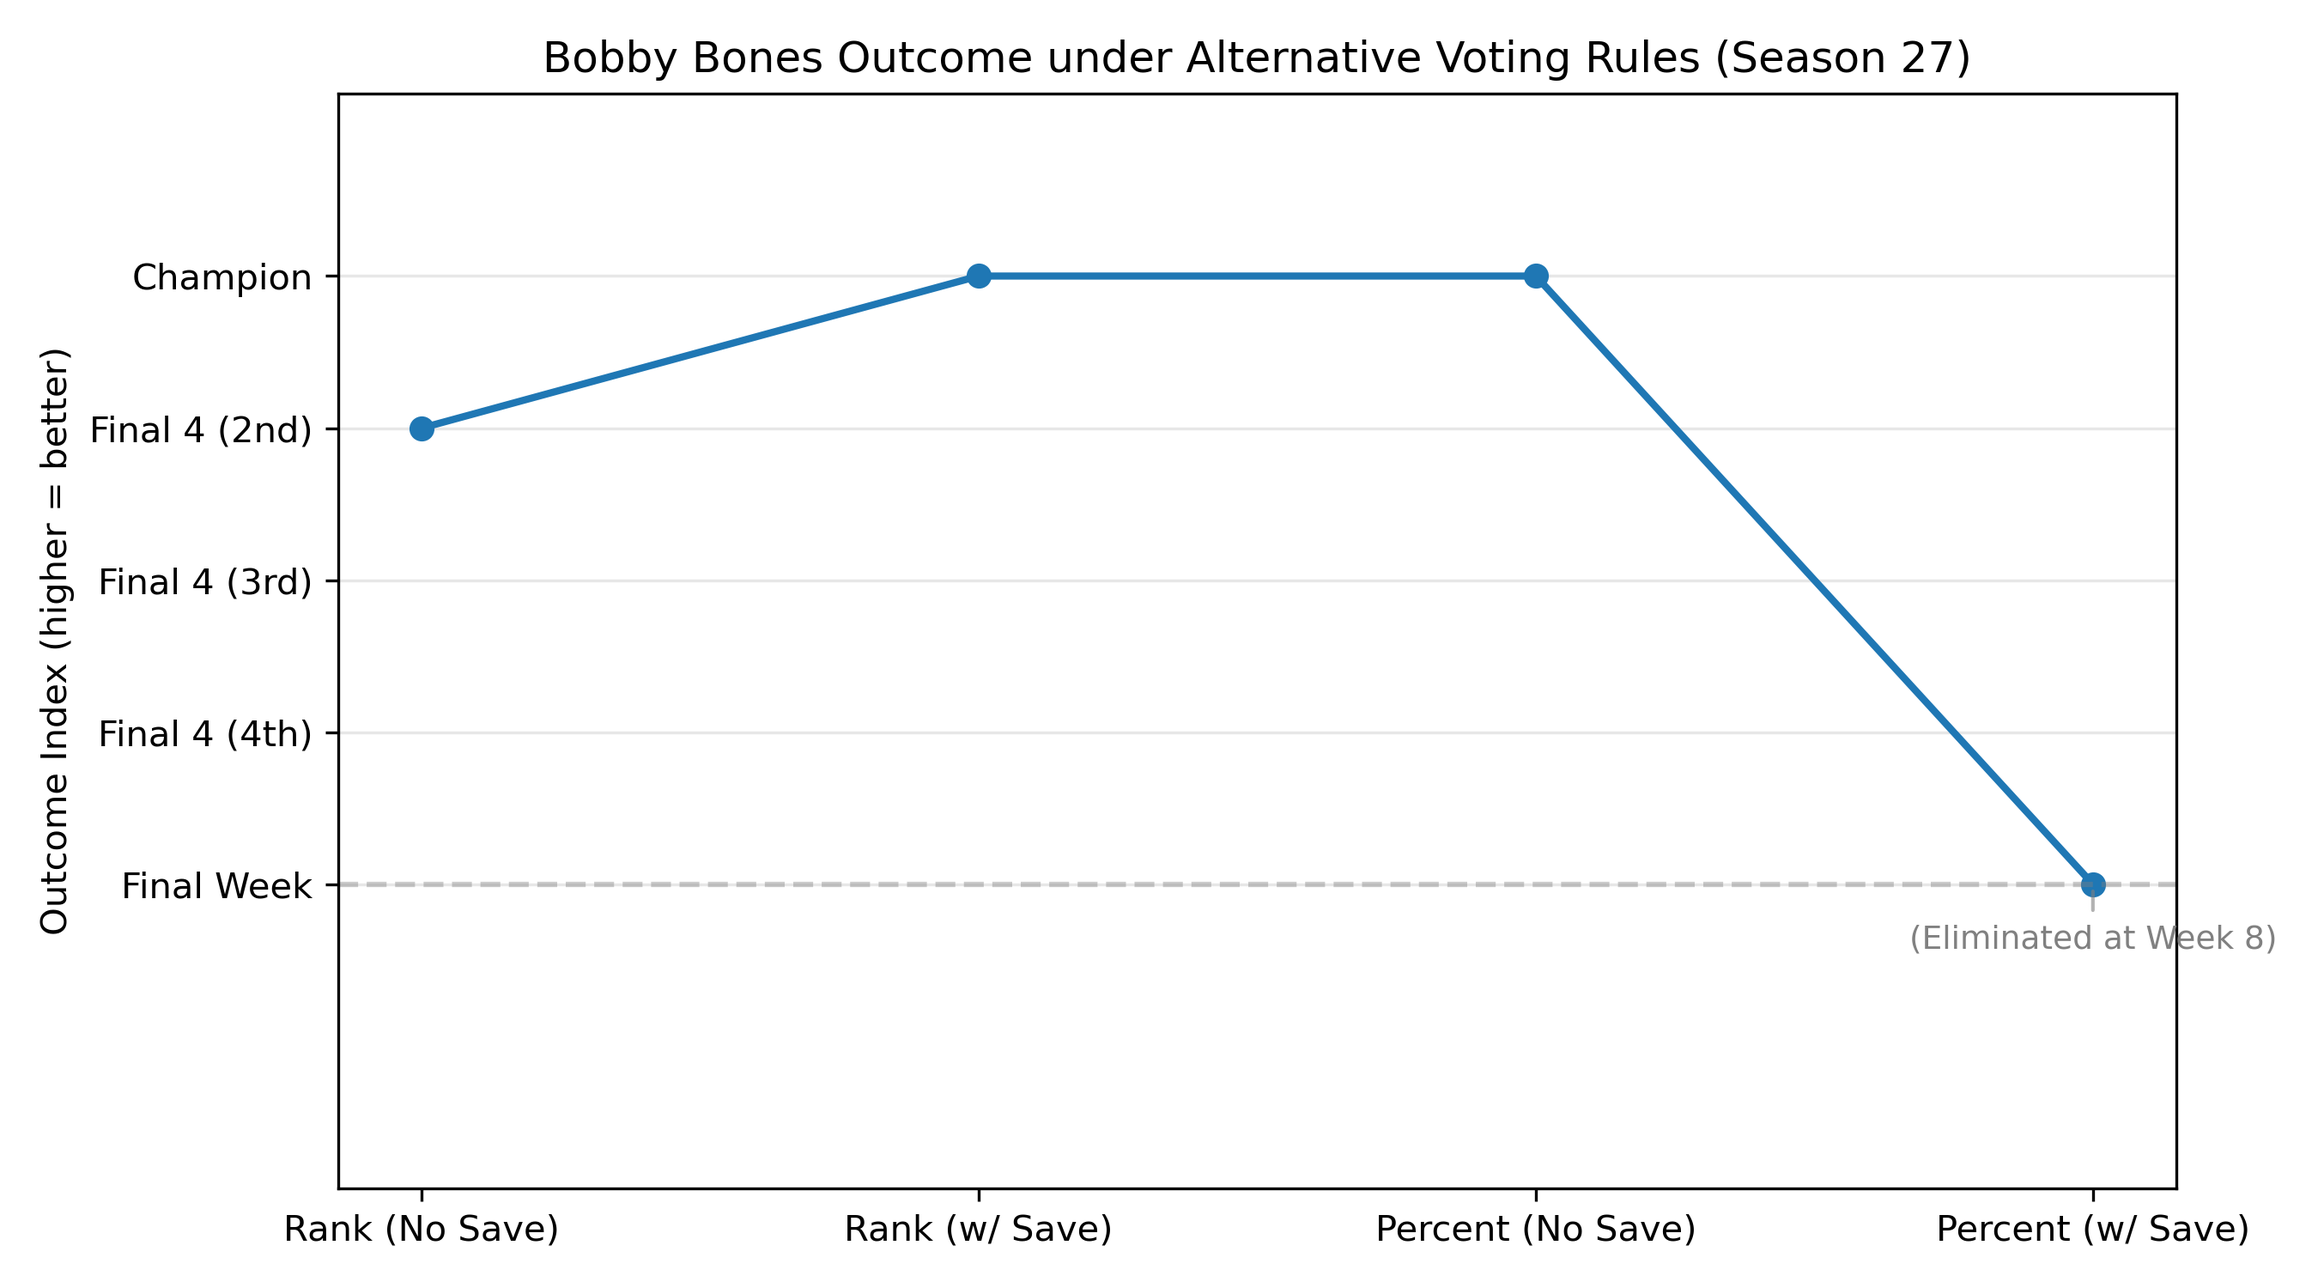
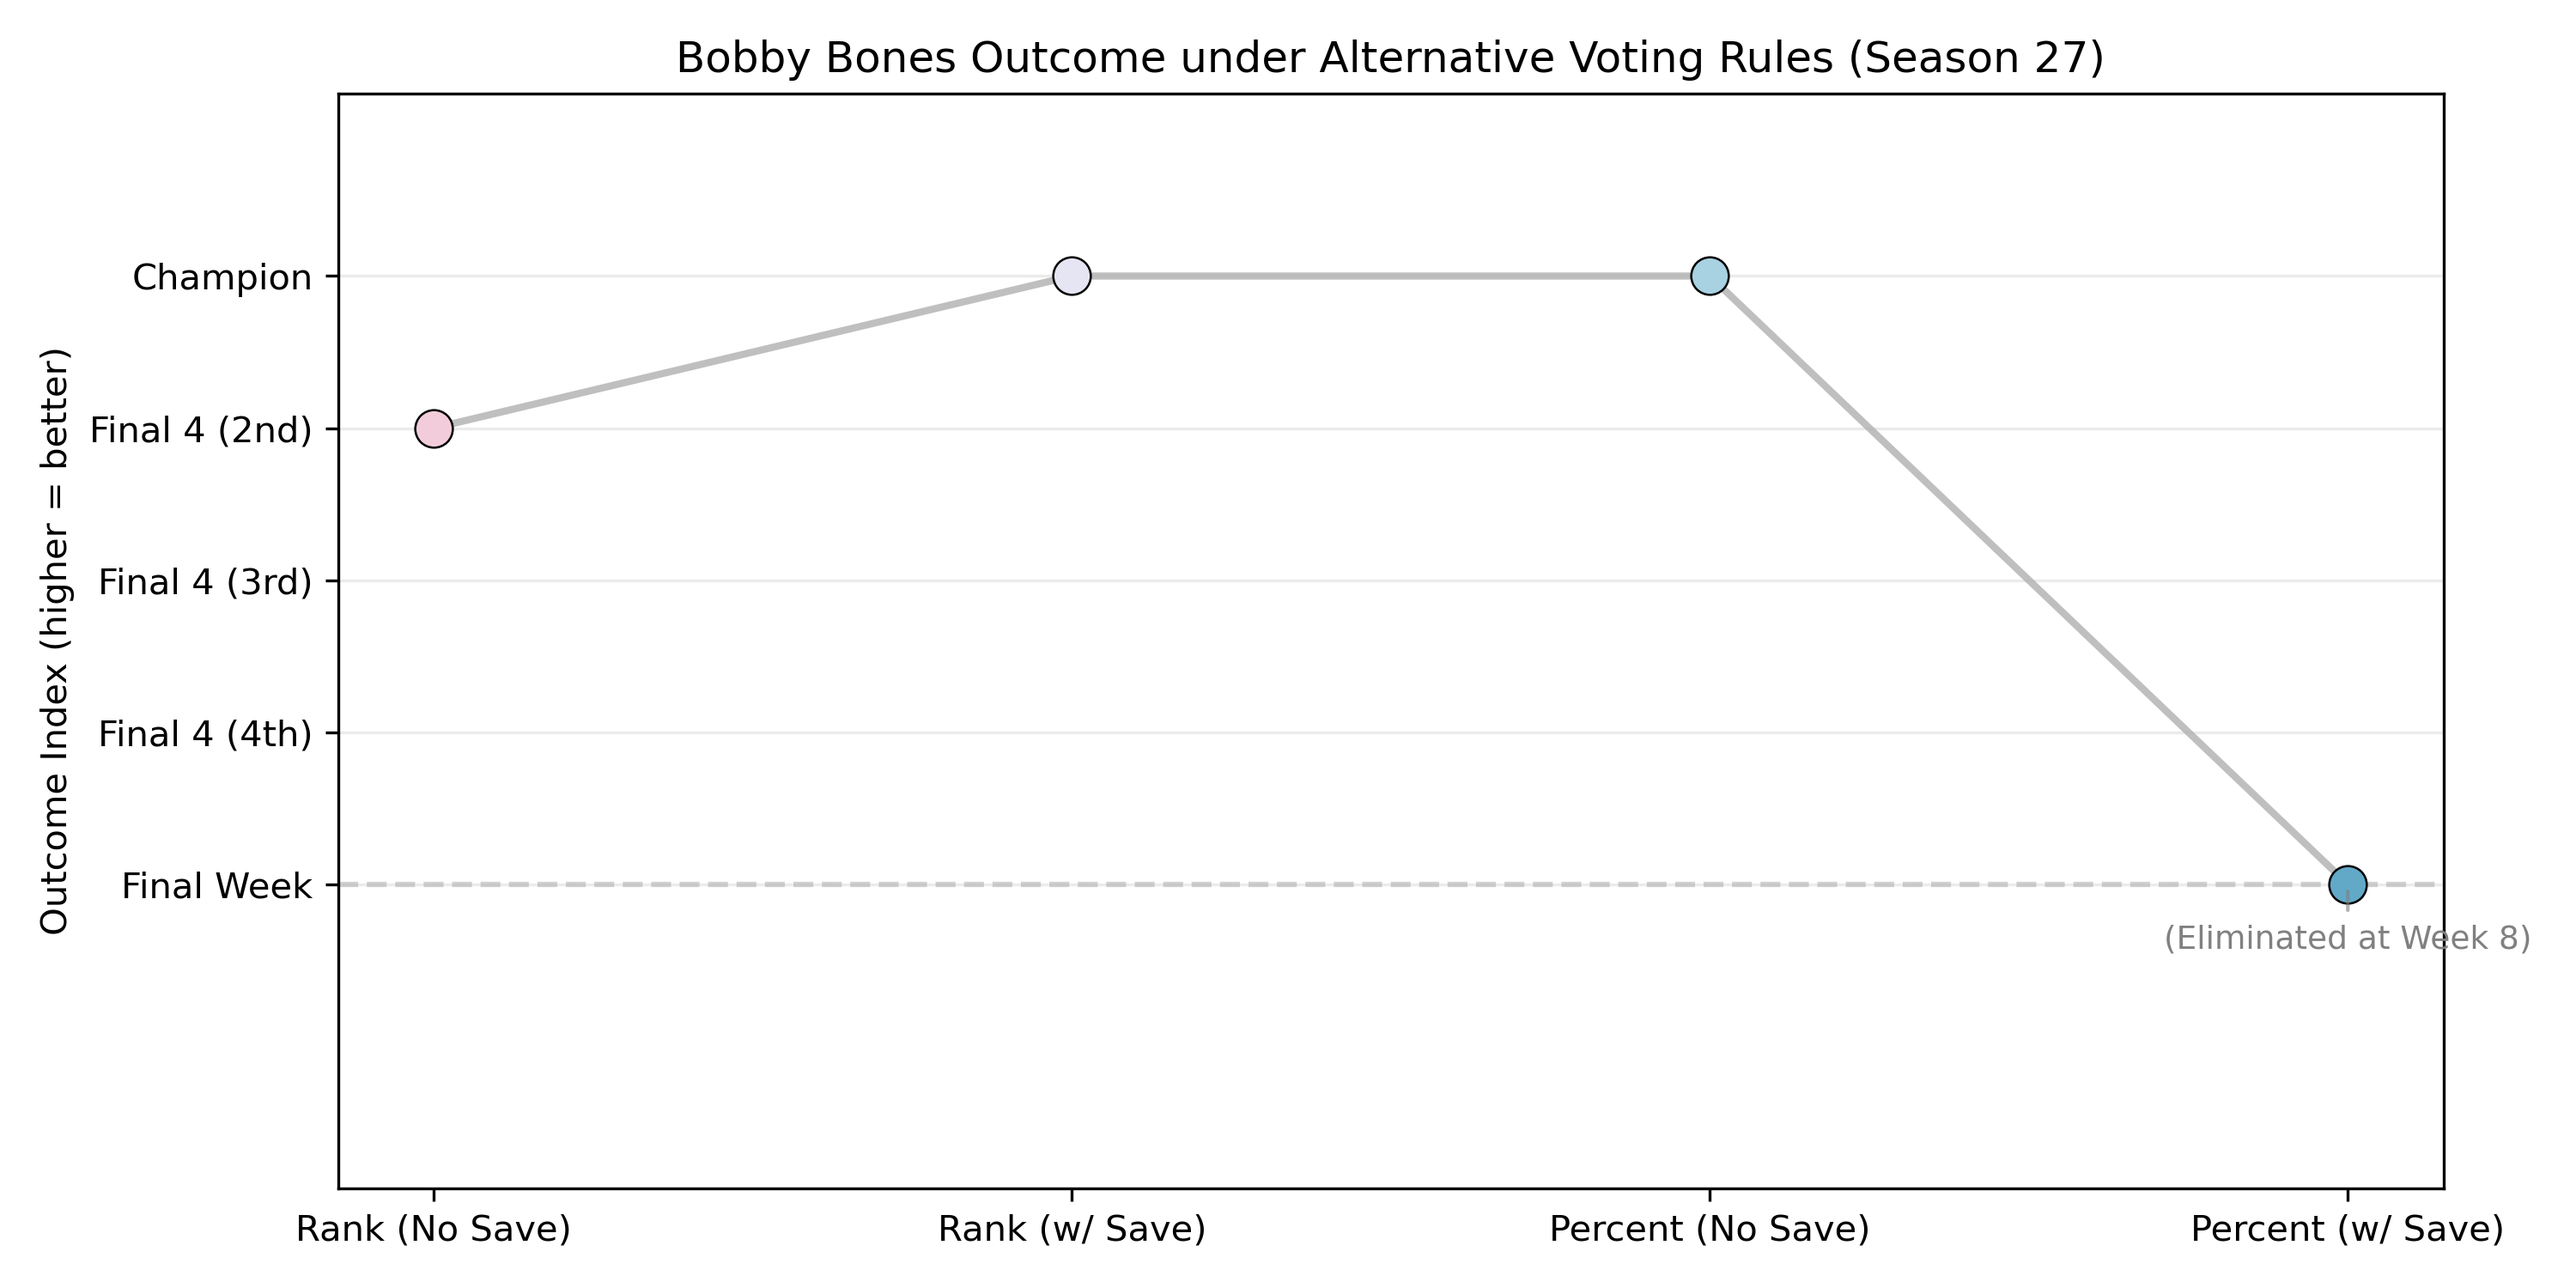
q2图改色

diff --git a/src/make_q2_fig3.py b/src/make_q2_fig3.py
@@ -14,6 +14,14 @@ NAME = "Bobby Bones"
 TOTAL_WEEKS = 9
 FINAL_N = 4
 
+# 你的色卡（按规则映射）
+COLOR_MAP = {
+    "Rank (No Save)":    "#F3CCDB",
+    "Rank (w/ Save)":    "#E5E5F3",
+    "Percent (No Save)": "#A8D1E1",
+    "Percent (w/ Save)": "#62A9C8",
+}
+
 def clean(df):
     df = df.copy()
     df.columns = [c.strip() for c in df.columns]
@@ -36,10 +44,8 @@ def outcome_index_from_place(place: int) -> float:
 def infer_elim_week_fallback(weekly_sub: pd.DataFrame) -> int | None:
     """
     兜底推断淘汰周：
-    如果 weekly_sub 有一列能表示“当周还在场的选手名单”，用它推断 Bobby 最后出现在哪周。
-    由于你们的 CSV 字段可能不统一，这里做“多列候选名”的尝试。
+    如果 weekly_sub 有一列表示“当周还在场的选手名单”，用它推断 Bobby 最后出现在哪周。
     """
-    # 常见候选列名（你们如果实际列名不同，可以继续加）
     candidate_cols = [
         "remaining_contestants",
         "contestants_remaining",
@@ -55,7 +61,6 @@ def infer_elim_week_fallback(weekly_sub: pd.DataFrame) -> int | None:
     if col is None:
         return None
 
-    # 假设该列是用 ; 或 , 拼接的字符串
     last_seen = None
     for _, r in weekly_sub.sort_values("week").iterrows():
         s = r.get(col, None)
@@ -66,8 +71,6 @@ def infer_elim_week_fallback(weekly_sub: pd.DataFrame) -> int | None:
     if last_seen is None:
         return None
 
-    # 如果最后一次出现是第 k 周，说明第 k+1 周他不在了 -> 推断淘汰周 = k+1
-    # 但不要超过总周数
     return min(last_seen + 1, TOTAL_WEEKS)
 
 def get_bobby_outcome(weekly: pd.DataFrame, final: pd.DataFrame, method: str, save: bool):
@@ -98,12 +101,12 @@ def get_bobby_outcome(weekly: pd.DataFrame, final: pd.DataFrame, method: str, sa
         place = int(fr["pred_final_place"].iloc[0])
         return label, outcome_index_from_place(place), f"Final Place {place}"
 
-    # 3) 兜底：用“是否仍在下一周名单中”推断淘汰周（如果你们 weekly 有对应列）
+    # 3) 兜底：名单消失推断淘汰周
     fallback_week = infer_elim_week_fallback(ws)
     if fallback_week is not None:
         return label, float(fallback_week), f"Inferred Elim Week {fallback_week}"
 
-    # 4) 再兜底：如果啥都没有，就放在 TOTAL_WEEKS（表示“至少活到最后一周但名次未知”）
+    # 4) 再兜底：活到最后一周但未知名次
     return label, float(TOTAL_WEEKS), "Reached Final Week (place unknown)"
 
 def main():
@@ -123,56 +126,66 @@ def main():
     ]
 
     labels, yvals, notes = [], [], []
-
     for method, save in rules:
         lab, y, note = get_bobby_outcome(weekly, final, method, save)
         labels.append(lab)
         yvals.append(y)
         notes.append(note)
 
-    plt.figure(figsize=(9, 5))
-    plt.plot(labels, yvals, marker="o", linewidth=2)
+    # --- Plot (更好看版) ---
+    plt.figure(figsize=(10, 5))
+
+    xs = np.arange(len(labels))
+
+    # 1) 先画一条“中性连接线”（灰色），避免整体只有一种颜色太突兀
+    plt.plot(xs, yvals, linewidth=2, color="gray", alpha=0.5, zorder=1)
+
+    # 2) 再画 4 个彩色点（每条规则一个颜色）
+    for i, lab in enumerate(labels):
+        c = COLOR_MAP.get(lab, "#333333")
+        plt.scatter(xs[i], yvals[i], s=110, color=c, edgecolor="black", linewidth=0.6, zorder=3)
 
     # Final week reference
-    plt.axhline(9, linestyle="--", color="gray", alpha=0.4)
+    plt.axhline(9, linestyle="--", color="gray", alpha=0.35, zorder=0)
 
     plt.ylabel("Outcome Index (higher = better)")
     plt.title("Bobby Bones Outcome under Alternative Voting Rules (Season 27)")
 
-    # ✅ 核心修改在这里
+    # y 轴：只看决赛相关区间
     plt.ylim(8.5, 10.3)
     plt.yticks(
         [9, 9.25, 9.5, 9.75, 10],
         ["Final Week",
-        "Final 4 (4th)",
-        "Final 4 (3rd)",
-        "Final 4 (2nd)",
-        "Champion"]
+         "Final 4 (4th)",
+         "Final 4 (3rd)",
+         "Final 4 (2nd)",
+         "Champion"]
     )
 
-    plt.grid(axis="y", alpha=0.3)
-    # 单独标注 Percent (w/ Save) 的淘汰周
-    idx = labels.index("Percent (w/ Save)")
-    x = idx
-    y = yvals[idx]
+    plt.xticks(xs, labels, rotation=0)
 
-    plt.annotate(
-        "(Eliminated at Week 8)",
-        (x, y),
-        textcoords="offset points",
-        xytext=(0, -18),
-        ha="center",
-        fontsize=9,
-        color="gray",
-        arrowprops=dict(arrowstyle="-", color="gray", alpha=0.6)
-    )
+    plt.grid(axis="y", alpha=0.25)
+
+    # 只给第四种规则加“Week 8”标注（你之前要求的）
+    if "Percent (w/ Save)" in labels:
+        idx = labels.index("Percent (w/ Save)")
+        plt.annotate(
+            "(Eliminated at Week 8)",
+            (xs[idx], yvals[idx]),
+            textcoords="offset points",
+            xytext=(0, -18),
+            ha="center",
+            fontsize=9,
+            color="gray",
+            arrowprops=dict(arrowstyle="-", color="gray", alpha=0.6)
+        )
 
     plt.tight_layout()
-    plt.savefig(os.path.join(OUTDIR, FIGNAME), dpi=300)
+    outpath = os.path.join(OUTDIR, FIGNAME)
+    plt.savefig(outpath, dpi=300)
     plt.close()
 
-
-    print("[OK] Saved")
+    print("[OK] Saved:", outpath)
     for lab, y, note in zip(labels, yvals, notes):
         print(f"{lab:18s} -> y={y:.2f} | {note}")
 

diff --git a/src/make_q2_fig4.py b/src/make_q2_fig4.py
@@ -1,27 +1,23 @@
-# src/make_q2_figures.py
 import os
 import pandas as pd
 import numpy as np
 import matplotlib.pyplot as plt
 
-
-# -----------------------------
-# Config (尽量少让你手动改)
-# -----------------------------
 INPUT_DIR = "output"
-OUT_DIR_LATEX = "images"          # 论文里引用的是 images/xxx.png
+OUT_DIR_LATEX = "images"
 OUT_DIR_BACKUP = os.path.join("output", "images")
 
-WEEKLY_FILE = os.path.join(INPUT_DIR, "task2_weekly_elims_detail.csv")
 SEASON_FILE = os.path.join(INPUT_DIR, "task2_season_comparison.csv")
-FINAL_FILE  = os.path.join(INPUT_DIR, "task2_final_ranking.csv")  # 用于判断“没被淘汰的人最终名次”
-
-FIG3_NAME = "Bobby_Bones_Survival_Fixed.png"
 FIG4_NAME = "Rule_Fairness_Comparison_Fixed.png"
 
+COLOR_MAP = {
+    "Rank (No Save)":    "#F3CCDB",
+    "Rank (w/ Save)":    "#E5E5F3",
+    "Percent (No Save)": "#A8D1E1",
+    "Percent (w/ Save)": "#62A9C8",
+}
 
 def _clean_df(df: pd.DataFrame) -> pd.DataFrame:
-    """清理列名/字符串字段的前后空格，避免你们 CSV 里的 ' week' / ' method ' 这种坑。"""
     df = df.copy()
     df.columns = [c.strip() for c in df.columns]
     for c in df.columns:
@@ -30,14 +26,11 @@ def _clean_df(df: pd.DataFrame) -> pd.DataFrame:
             df.loc[df[c].isin(["", "nan", "None"]), c] = np.nan
     return df
 
-
 def _ensure_dirs():
     os.makedirs(OUT_DIR_LATEX, exist_ok=True)
     os.makedirs(OUT_DIR_BACKUP, exist_ok=True)
 
-
 def _rule_label(method: str, bottom2_save: bool) -> str:
-    # 论文里用的 4 种规则组合
     m = str(method).strip().lower()
     save = bool(bottom2_save)
     if m.startswith("rank"):
@@ -47,30 +40,39 @@ def _rule_label(method: str, bottom2_save: bool) -> str:
     return f"{method} | save={save}"
 
 def make_figure4_rule_fairness_boxplot(season_cmp: pd.DataFrame):
-    """
-    Figure 4:
-    用 task2_season_comparison.csv 的 elim_vote_share_mean (每 season 一个值)
-    对四种规则做箱线图比较。
-    """
     df = season_cmp.copy()
 
-    # elim_vote_share_mean 在你们 CSV 里是带空格的字符串，强转 float
     df["elim_vote_share_mean"] = pd.to_numeric(df["elim_vote_share_mean"], errors="coerce")
     df = df.dropna(subset=["elim_vote_share_mean", "method", "bottom2_save"])
 
-    # 规则标签
     df["bottom2_save_bool"] = df["bottom2_save"].astype(str).str.strip().str.lower().isin(["true", "1", "yes"])
     df["rule"] = df.apply(lambda r: _rule_label(r["method"], r["bottom2_save_bool"]), axis=1)
 
     order = ["Rank (No Save)", "Rank (w/ Save)", "Percent (No Save)", "Percent (w/ Save)"]
     data = [df.loc[df["rule"] == lab, "elim_vote_share_mean"].values for lab in order]
 
-    # 画箱线图
     plt.figure(figsize=(10, 5))
-    plt.boxplot(data, labels=order, showfliers=False)
+
+    bp = plt.boxplot(
+        data,
+        labels=order,
+        showfliers=False,
+        patch_artist=True,   # 关键：允许填充箱体颜色
+        medianprops=dict(color="black", linewidth=1.4),
+        whiskerprops=dict(color="black", linewidth=1.0),
+        capprops=dict(color="black", linewidth=1.0),
+        boxprops=dict(edgecolor="black", linewidth=1.0),
+    )
+
+    # 给每个箱体上色
+    for patch, lab in zip(bp["boxes"], order):
+        patch.set_facecolor(COLOR_MAP.get(lab, "#DDDDDD"))
+        patch.set_alpha(0.9)
+
     plt.ylabel("Average Fan Vote Share of Eliminated Contestants (per season)")
     plt.title("Systemic Fairness Comparison Across Voting Rules")
     plt.xticks(rotation=20, ha="right")
+    plt.grid(axis="y", alpha=0.25)
     plt.tight_layout()
 
     fig_path1 = os.path.join(OUT_DIR_LATEX, FIG4_NAME)
@@ -80,29 +82,13 @@ def make_figure4_rule_fairness_boxplot(season_cmp: pd.DataFrame):
     plt.close()
     print(f"[OK] Figure 4 saved: {fig_path1} and {fig_path2}")
 
-
 def main():
     _ensure_dirs()
-
-    # 读数据
-    if not os.path.exists(WEEKLY_FILE):
-        raise FileNotFoundError(f"Missing {WEEKLY_FILE}")
     if not os.path.exists(SEASON_FILE):
         raise FileNotFoundError(f"Missing {SEASON_FILE}")
-    if not os.path.exists(FINAL_FILE):
-        raise FileNotFoundError(f"Missing {FINAL_FILE}")
 
-    weekly = _clean_df(pd.read_csv(WEEKLY_FILE))
     season_cmp = _clean_df(pd.read_csv(SEASON_FILE))
-    final_rank = _clean_df(pd.read_csv(FINAL_FILE))
-
-    # sanity print：避免你担心字段名被我搞错
-    print("[INFO] weekly columns:", list(weekly.columns))
-    print("[INFO] season columns:", list(season_cmp.columns))
-    print("[INFO] final columns:", list(final_rank.columns))
-
     make_figure4_rule_fairness_boxplot(season_cmp)
-
 
 if __name__ == "__main__":
     main()
